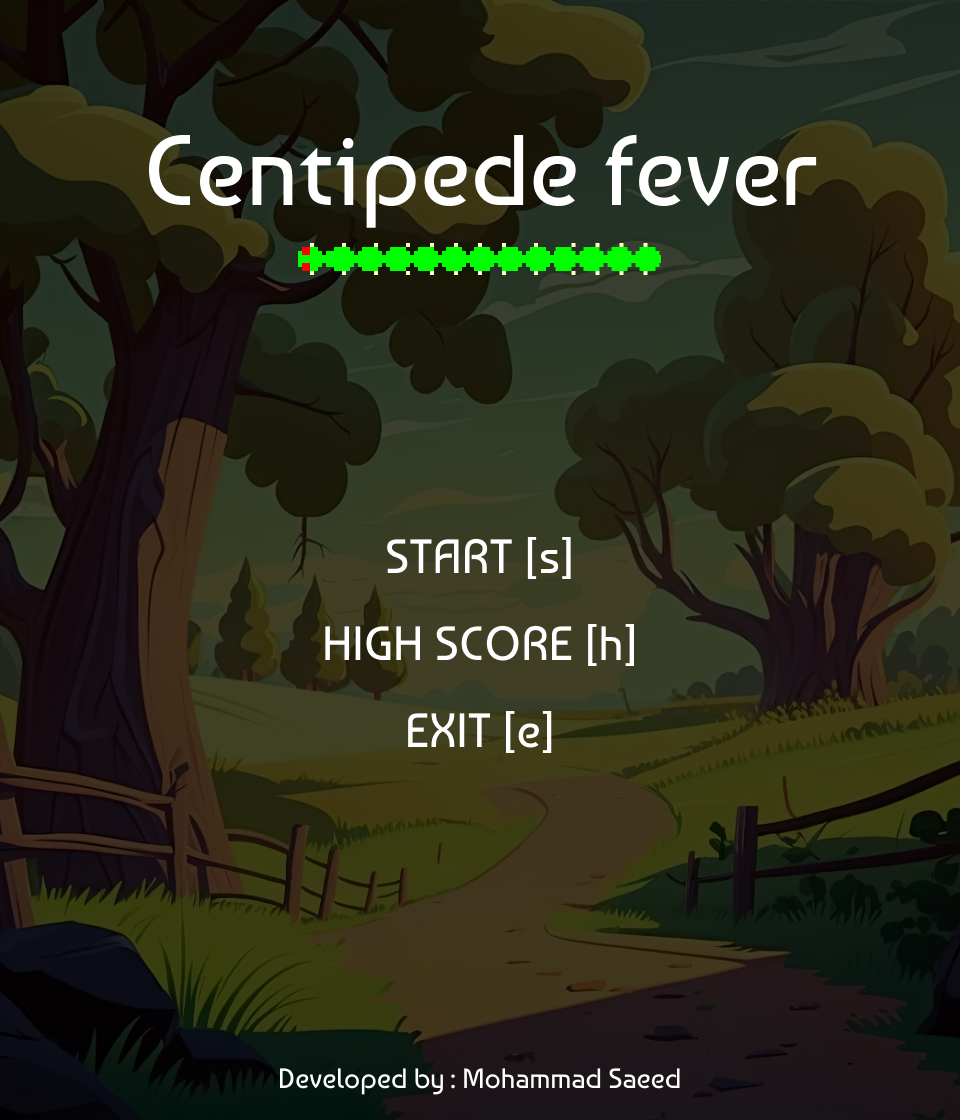
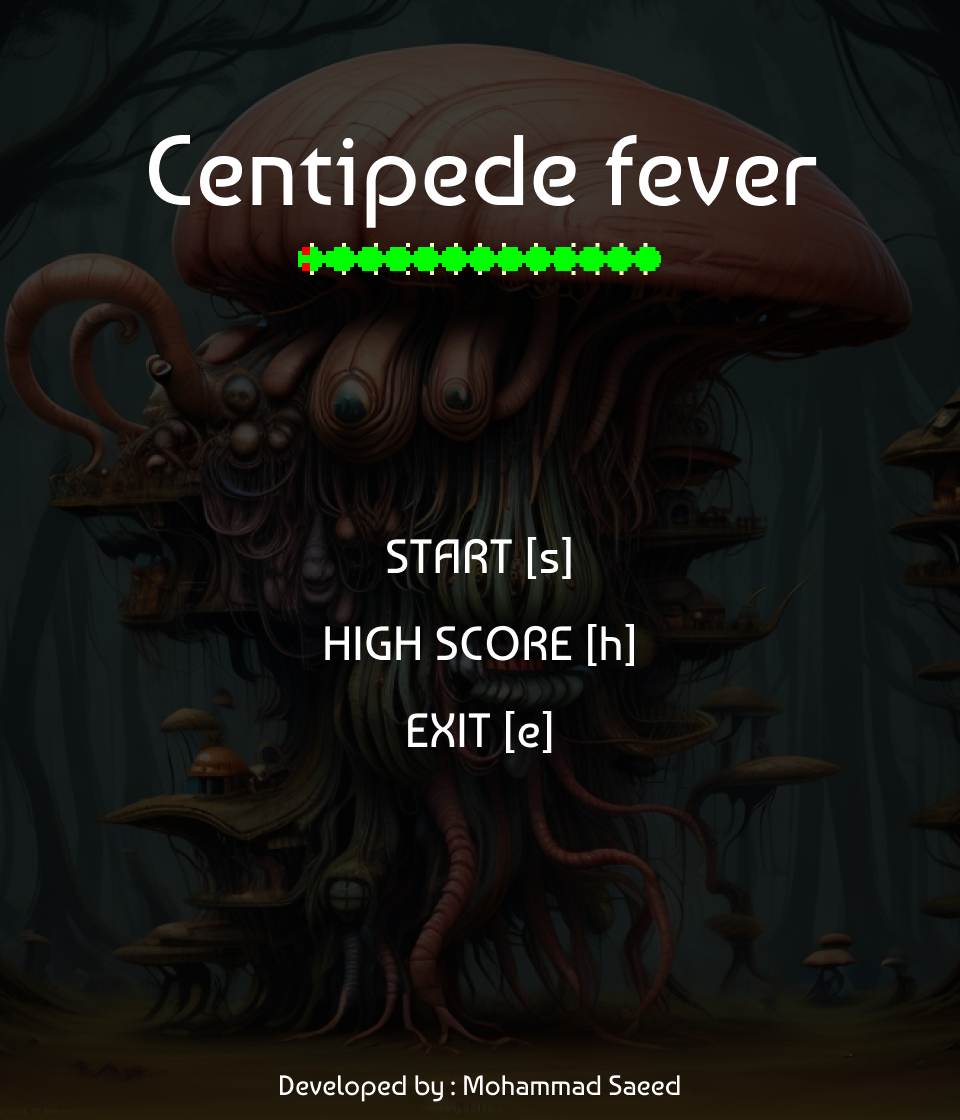
Background Update + State Bug Fixed

diff --git a/main.cpp b/main.cpp
@@ -153,6 +153,7 @@ int main()
                     if (e.type == Event::Closed)
                     {
                         window.close();
+                        State = State_Exit;
                     }
                     if (e.type == Event::KeyPressed)
                     {
@@ -295,6 +296,7 @@ int main()
                     if (e.type == Event::Closed)
                     {
                         window.close();
+                        State = State_Exit;
                     }
                 }
 
